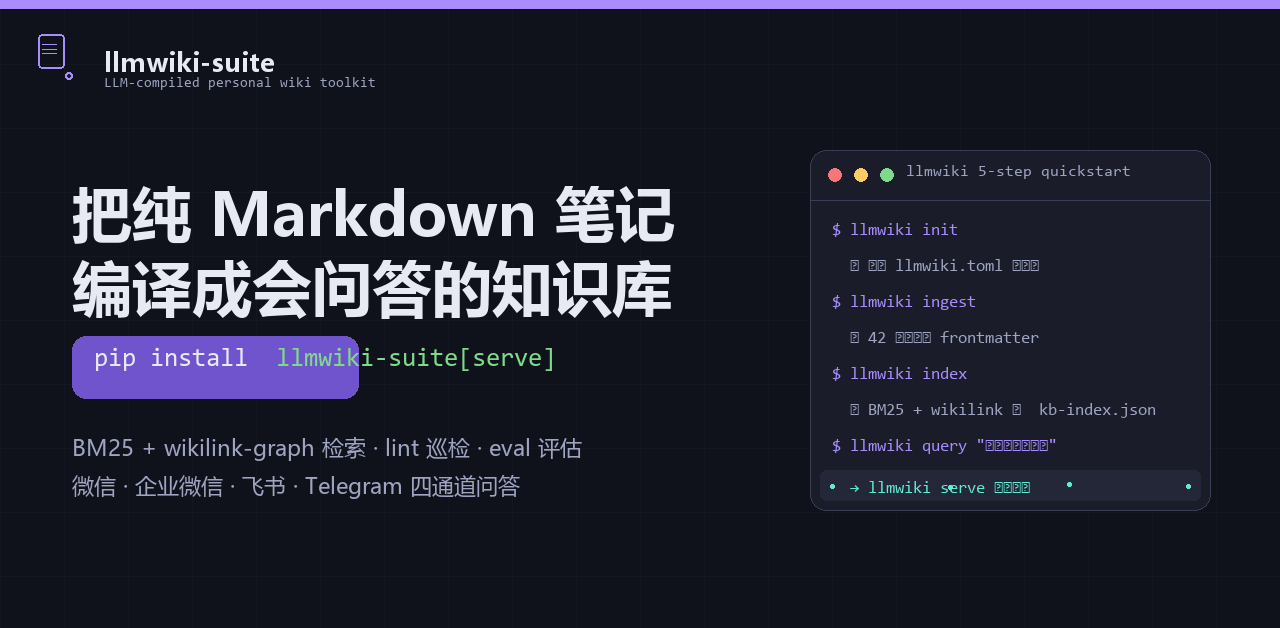
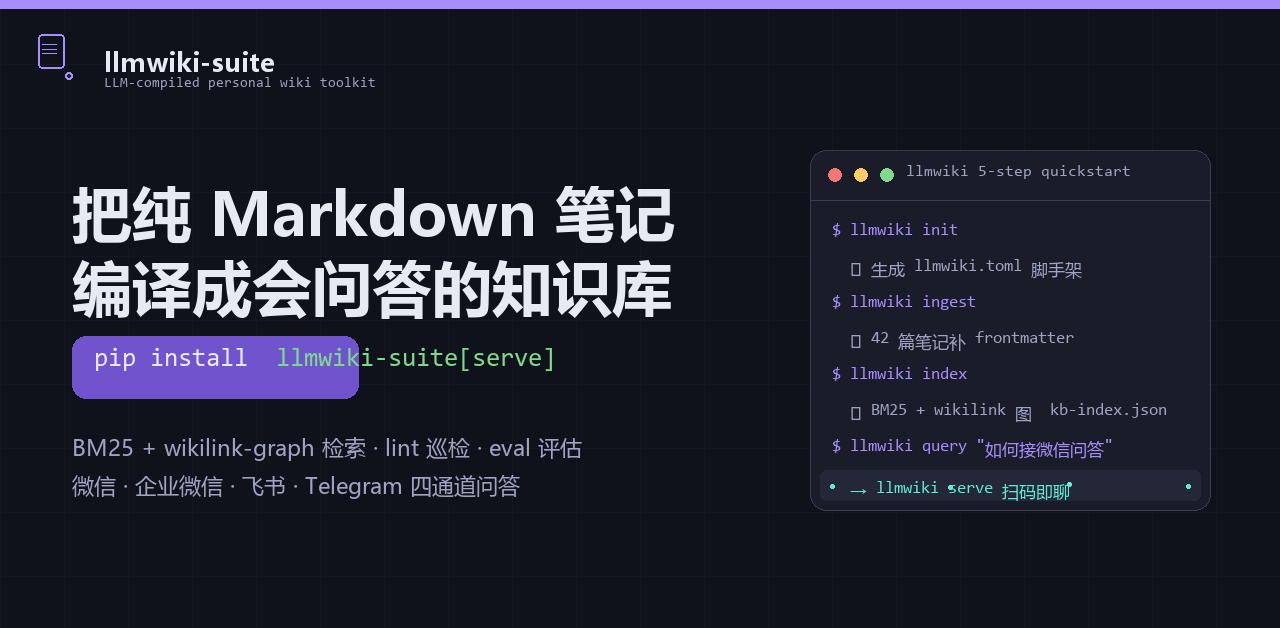
fix(assets): 终端中文乱码 — 中英混合字体渲染
Consolas 无中文字形，此前所有终端卡片/演示图中文渲染成豆腐块。
新增 draw_mixed()：拉丁走 Consolas、CJK 走微软雅黑，逐段拼接；
banner / social-preview / demo-term 全部改走该渲染器。附带清理一处重复函数。

diff --git a/scripts/make_repo_banners.py b/scripts/make_repo_banners.py
@@ -87,6 +87,40 @@ def img_draw(img):
     return ImageDraw.Draw(img)
 
 
+def is_cjk(ch):
+    o = ord(ch)
+    return (0x4E00 <= o <= 0x9FFF or 0x3400 <= o <= 0x4DBF or
+            0x3000 <= o <= 0x303F or 0xFF00 <= o <= 0xFFEF or
+            o in (0x2014, 0x2018, 0x2019, 0x201C, 0x201D, 0x2026,
+                  0x2192, 0x2713, 0x00B7, 0x2022, 0x25CF))
+
+
+def split_segments(text):
+    """Split text into runs of same kind (CJK vs latin/code)."""
+    if not text:
+        return []
+    runs, cur, cur_kind = [], text[0], is_cjk(text[0])
+    for ch in text[1:]:
+        k = is_cjk(ch)
+        if k == cur_kind:
+            cur += ch
+        else:
+            runs.append((cur_kind, cur))
+            cur, cur_kind = ch, k
+    runs.append((cur_kind, cur))
+    return runs
+
+
+def draw_mixed(d, xy, text, font_code, font_cjk, fill):
+    """Render a line mixing code (Consolas) and CJK (YaHei) glyphs."""
+    x, y = xy
+    for kind, seg in split_segments(text):
+        fnt = font_cjk if kind else font_code
+        d.text((x, y), seg, font=fnt, fill=fill)
+        x += fnt.getlength(seg)
+    return x
+
+
 def make_banner(W=1280, H=628):
     img = Image.new("RGB", (W, H), CG["bg"])
     grid(img, 64)
@@ -110,7 +144,8 @@ def make_banner(W=1280, H=628):
     term_frame(img, tx, ty, tw, th, "llmwiki 5-step quickstart")
     d = ImageDraw.Draw(img)
     y = ty + 72
-    cf = F(CONSOLAS, 17)
+    code_f = F(CONSOLAS, 17)
+    cjk_f = F(YAHEI, 17)
     lines = [
         ("$ llmwiki init", CG["violet"], 0),
         ("  ✓ 生成 llmwiki.toml 脚手架", CG["muted"], 0),
@@ -126,7 +161,7 @@ def make_banner(W=1280, H=628):
             d.rounded_rectangle([tx + 10, y - 4, tx + tw - 10, y + 26], radius=6,
                                 fill=CG["panel2"])
             y += 6
-        d.text((tx + 22, y), text, font=cf, fill=col)
+        draw_mixed(d, (tx + 22, y), text, code_f, cjk_f, col)
         y += 36
     dots(img_draw(img), tx + 22, ty + th - 24, tx + tw - 22, 4, CG["teal"])
     img.save(os.path.join(ASSETS, "banner.png"), optimize=True)
@@ -159,7 +194,7 @@ def make_og(W=1600, H=630):
                             fill=CG["panel"], outline=CG["line"], width=1)
         d.rounded_rectangle([W - 540, yy + 18, W - 540 + 44, yy + 62], radius=8, fill=col)
         d.text((W - 472, yy + 16), name, font=F(YAHEI_BOLD, 26), fill=col)
-        d.text((W - 472, yy + 52), desc, font=F(CONSOLAS, 16), fill=CG["muted"])
+        draw_mixed(d, (W - 472, yy + 52), desc, F(CONSOLAS, 16), F(YAHEI, 16), CG["muted"])
         yy += 104
     img.save(os.path.join(ASSETS, "social-preview.png"), optimize=True)
 
@@ -169,13 +204,14 @@ def make_term_demo(W=1360, H=800):
     d = ImageDraw.Draw(img)
     d.rounded_rectangle([28, 28, W - 28, H - 28], radius=20, fill=(22, 25, 36),
                         outline=CG["line"], width=2)
-    d.text((70, 54), "demo — llmwiki 五步接入已有笔记库", font=F(CONSOLAS, 17), fill=CG["muted"])
+    draw_mixed(d, (70, 54), "demo — llmwiki 五步接入已有笔记库",
+               F(CONSOLAS, 17), F(YAHEI, 17), CG["muted"])
     d.line([28, 92, W - 28, 92], fill=CG["line"], width=1)
 
     x0, y = 64, 150
     step_y = 54
-    cf = F(CONSOLAS, 21)
-    of = F(CONSOLAS, 20)
+    code_f = F(CONSOLAS, 21)
+    cjk_f = F(YAHEI, 21)
     lines = [
         ("$ llmwiki init", CG["violet"], True),
         ("✓ 生成 llmwiki.toml + .gitignore / pre-commit / CI 脚手架", CG["muted"], False),
@@ -190,11 +226,7 @@ def make_term_demo(W=1360, H=800):
     ]
     d = ImageDraw.Draw(img)
     for text, col, cmd in lines:
-        if cmd:
-            d.text((x0, y), text, font=F(CONSOLAS, 21), fill=col)
-        else:
-            fnt = F(CONSOLAS, 20)
-            d.text((x0, y), text, font=fnt, fill=col)
+        draw_mixed(d, (x0, y), text, code_f, cjk_f, col)
         y += step_y
     img.save(os.path.join(ASSETS, "demo-term.png"), optimize=True)
 
@@ -204,6 +236,3 @@ if __name__ == "__main__":
     make_og()
     make_term_demo()
     print("OK ->", ASSETS)
-
-def img_draw(img):
-    return ImageDraw.Draw(img)
